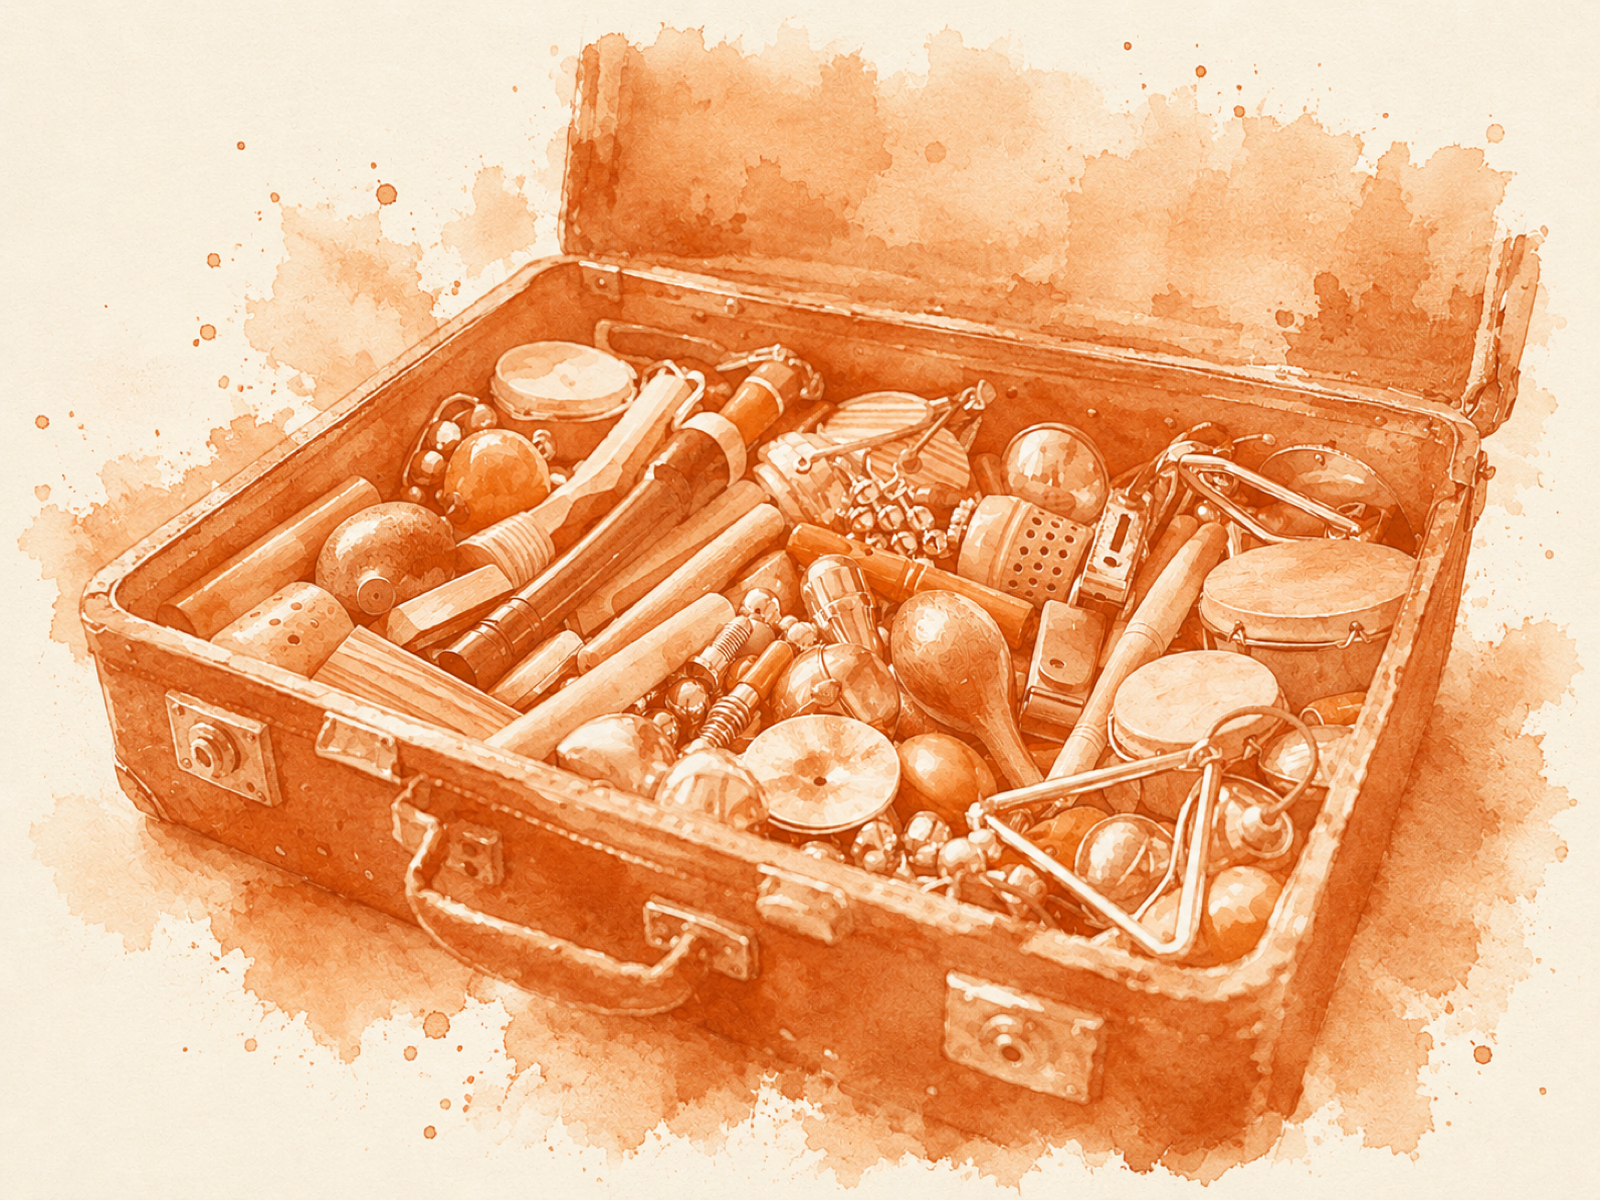
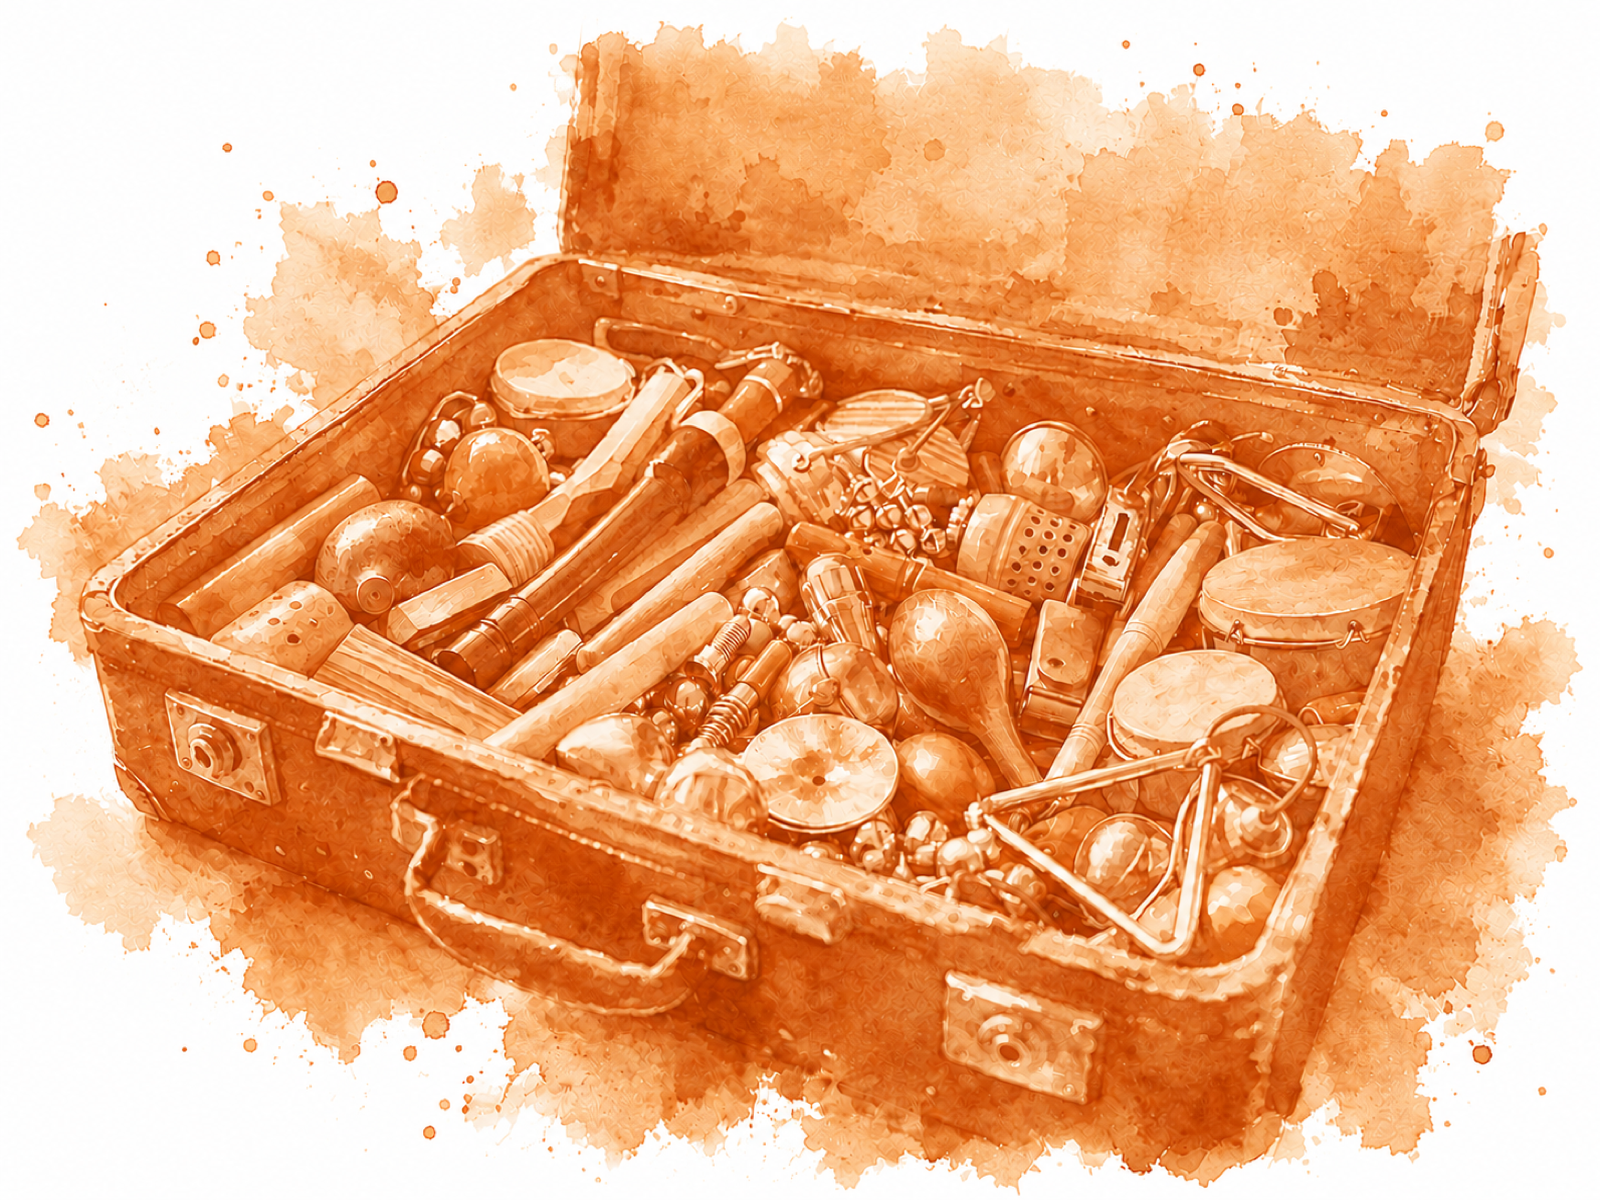
lab hero: neuer Klangkoffer (weißer Hintergrund) in Rotation

diff --git a/main.js b/main.js
@@ -4,7 +4,7 @@ if (heroDecoFull) {
   const imgSets = {
     'page-home':  ['img/index_hero.png', 'img/index_hero2.png', 'img/index_hero3.png'],
     'page-audio': ['img/audio_hero.png', 'img/audio_hero2.png', 'img/audio_hero3.png', 'img/audio_hero4.png', 'img/audio_hero5.png'],
-    'page-lab':   ['img/lab_hero3.png'],
+    'page-lab':   ['img/lab_hero3.png', 'img/lab_hero4.png'],
   };
   const key = Object.keys(imgSets).find(k => document.body.classList.contains(k));
   if (key) heroDecoFull.src = imgSets[key][Math.floor(Math.random() * imgSets[key].length)];